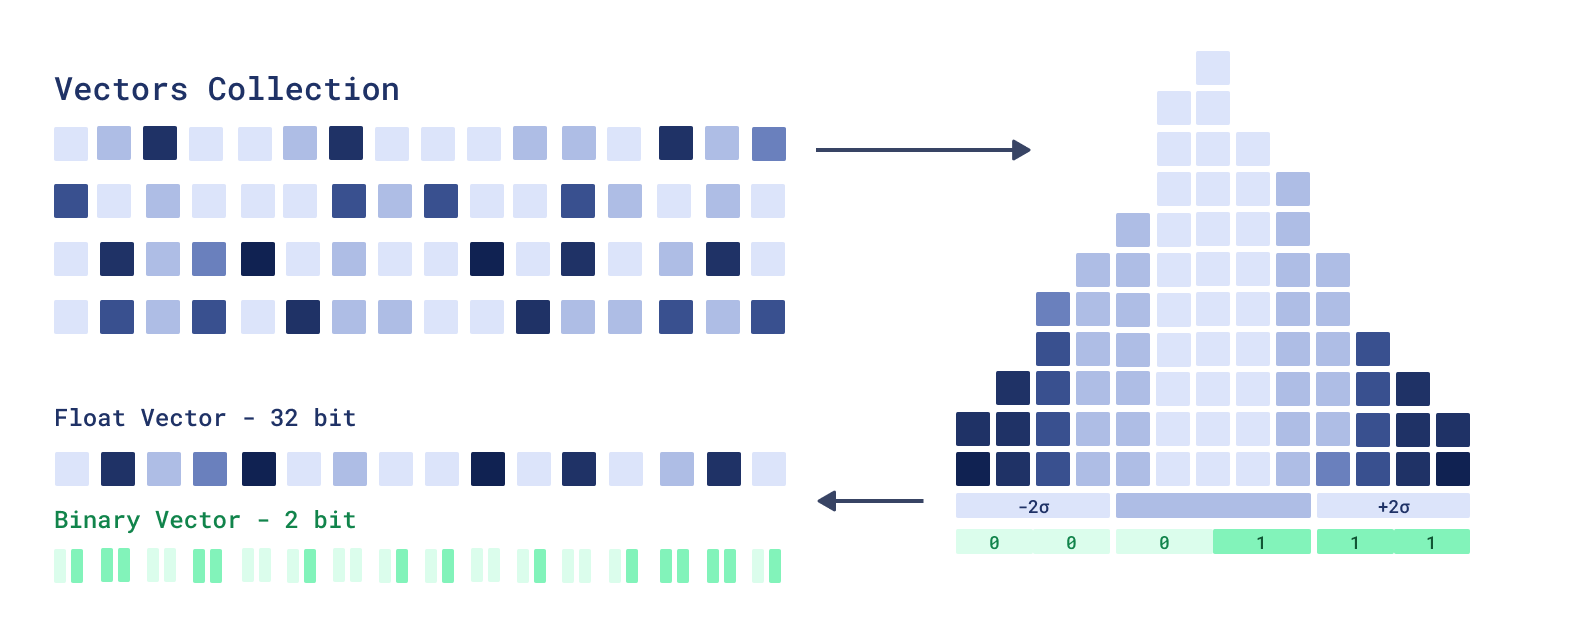
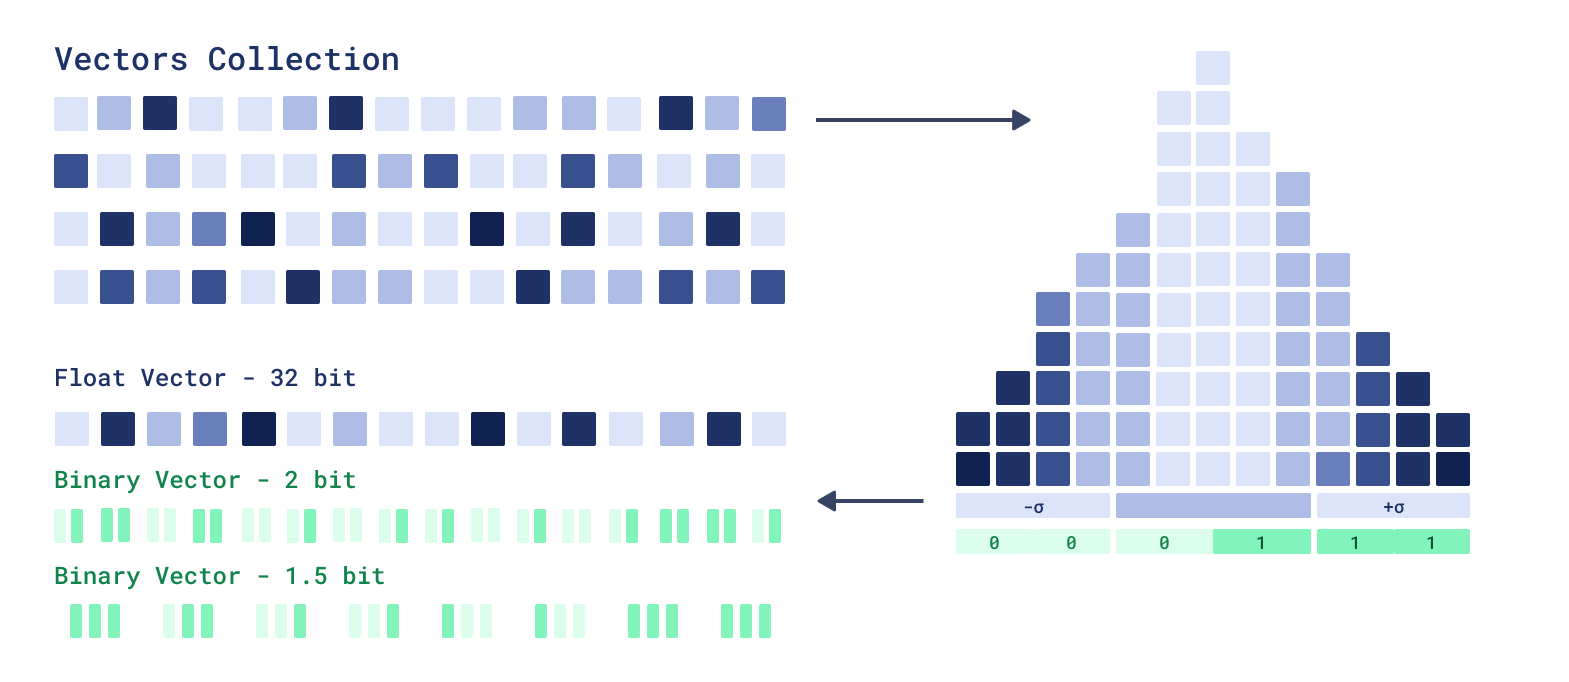
review

diff --git a/qdrant-landing/content/blog/qdrant-1.15.x.md b/qdrant-landing/content/blog/qdrant-1.15.x.md
@@ -3,8 +3,8 @@ title: "Qdrant 1.15 - Smarter Quantization & better Text Filtering"
 draft: false
 slug: qdrant-1.15.x
 short_description: "Smarter Quantization, Healing Indexes, and Multilingual Text Filtering"
-description: "New access control options for RBAC, a much faster shard transfer procedure, and direct support for byte embeddings. " 
-date: 2025-07-15T00:00:00-08:00
+description: "New access control options for RBAC, a much faster shard transfer procedure, and direct support for byte embeddings. "
+date: 2025-01-15T00:00:00-08:00
 author: Derrick Mwiti
 featured: false
 tags:
@@ -13,11 +13,11 @@ tags:
   - new features
 ---
 
-[**Qdrant 1.15.0 is out!**](https://github.com/qdrant/qdrant/releases/tag/v1.15.0) Let’s look at the main features for this version: 
+[**Qdrant 1.15.0 is out!**](https://github.com/qdrant/qdrant/releases/tag/v1.15.0) Let’s look at the main features for this version:
 
-**New quantizations:** We introduce asymmetric quantization and 1.5 and 2-bit quantizations. Asymmetric quantization allows vectors and queries to have different quantization algorithms. 1.5 and 2-bit quantizations allow for improved accuracy. 
+**New quantizations:** We introduce asymmetric quantization and 1.5 and 2-bit quantizations. Asymmetric quantization allows vectors and queries to have different quantization algorithms. 1.5 and 2-bit quantizations allow for improved accuracy.
 
-**Changes in text index**: Introduction of a new multilingual tokenizer, stopwords support, stemming, and phrase matching. 
+**Changes in text index**: Introduction of a new multilingual tokenizer, stopwords support, stemming, and phrase matching.
 
 Various optimizations, including **HNSW healing**, allowing HNSW indexes to reuse the old graph without a complete rebuild, and **Migration to Gridstore** unlocks faster injestion.
 
@@ -26,41 +26,56 @@ Various optimizations, including **HNSW healing**, allowing HNSW indexes to reus
 
 ![Section 1](/blog/qdrant-1.15.x/section-1.png)
 
-We are expanding the Qdrant quantization toolkit with: 
+We are expanding the Qdrant quantization toolkit with:
 
-* **1.5-bit and 2-bit quantization** for better tradeoffs between compression and accuracy.   
-* **Asymmetric quantization** to combine binary storage with scalar queries for smarter memory use. 
+* **1.5-bit and 2-bit quantization** for better tradeoffs between compression and accuracy.
+* **Asymmetric quantization** to combine binary storage with scalar queries for smarter memory use.
 
 ### 1.5-Bit and 2-Bit Quantization
-We introduce a new **binary quantization** storage that uses **2 and 1.5 bits** per dimension, improving precision for smaller vectors. Previous one-bit compression resulted in significant data loss and precision drops for vectors smaller than a thousand dimensions, often requiring expensive rescoring. 2-bit quantization offers 16X compression compared to 32X with one bit, improving performance for smaller vector dimensions. The 1.5-bit quantization compression offers 24X compression and intermediate accuracy. 
+We introduce a new **binary quantization** storage that uses **2 and 1.5 bits** per dimension, improving precision for smaller vectors. Previous one-bit compression resulted in significant data loss and precision drops for vectors smaller than a thousand dimensions, often requiring expensive rescoring. 2-bit quantization offers 16X compression compared to 32X with one bit, improving performance for smaller vector dimensions. The 1.5-bit quantization compression offers 24X compression and intermediate accuracy.
 
-A major limitation of binary quantization is poor handling of values close to zero. 2-bit quantization addresses this by explicitly representing zeros using an efficient scoring mechanism. With 1.5-bit quantization we balance the efficiency of binary quantization with accuracy improvements of 2-bit quantization. 
+![2bit Quantization](/blog/qdrant-1.15.x/1.5-2-bit-quantization.png)
 
-![Quantization](/blog/qdrant-1.15.x/1.5-2-bit-quantization.png)
+A major limitation of binary quantization is poor handling of values close to zero. 2-bit quantization addresses this by explicitly representing zeros using an efficient scoring mechanism. With 1.5-bit quantization we balance the efficiency of binary quantization with accuracy improvements of 2-bit quantization.
+
 
 ### Asymmetric Quantization
-Asymmetric quantization enhances accuracy while maintaining binary quantization's storage benefits. In **asymmetric Quantization** the queries use a different algorithm, specifically scalar quantization. This approach maintains storage size and RAM usage similar to binary quantization while offering improved precision. It is beneficial for memory-constrained deployments, or where the bottleneck is disk I/O rather than CPU. This is particularly useful for indexing millions of vectors as it improves precision without sacrificing much because the limitation in such scenarios is disk speed, not CPU. This approach requires less rescoring for the same quality output. 
+
+The **Asymmetric Quantization** technique allows qdrant to use different vector encoding algorithm for stored vectors and for queries.
+Particularly interesting combination is a Binary stored vectors and Scalar quantized queries.
+
+This approach maintains storage size and RAM usage similar to binary quantization while offering improved precision. It is beneficial for memory-constrained deployments, or where the bottleneck is disk I/O rather than CPU. This is particularly useful for indexing millions of vectors as it improves precision without sacrificing much because the limitation in such scenarios is disk speed, not CPU. This approach requires less rescoring for the same quality output.
+
+![Asymmetric Quantization](/blog/qdrant-1.15.x/asymmetric-quantization.png)
 
 When performing nearest vector search, the query vector is compared against quantized vectors stored in the database. If the query itself remains unquantized and a scoring method exists to evaluate it directly against the compressed vectors, this allows for more accurate results without increasing memory usage.
 
-For example, when building a document retrieval system, you can use scalar quantization for the queries and binary quantization for the stored vectors. 
-
->  Quantization enables efficient storage and search of high-dimensional vectors. Learn more about this from our [**quantization**](/documentation/guides/quantization/) docs. 
+>  Quantization enables efficient storage and search of high-dimensional vectors. Learn more about this from our [**quantization**](/documentation/guides/quantization/) docs.
 
 ## Changes in Text Index
 
 ![Section 2](/blog/qdrant-1.15.x/section-2.png)
 
-Let's discover the new features in text indexing. 
+Full-text filtering in Qdrant in an efficient way to combine Vector-based scoring with exact keyword match.
+And in v1.15 full-text index recieved a number of upgrades which make vector similarity evem more useful.
 
 ### Multilingual Tokenization
-Building multilingual systems is challenging because languages have very different structures, complex morphology, and large variations in word usage. Qdrant now supports multilingual tokenization, meaning that search will perform more consistently in multilingual datasets without needing external preprocessing. This means that your system can now natively account for different alphabets, and grammatical structures. 
 
-We previously supported multilingual tokenization but made its compilation optional due to the large binary size. Recent changes have made the binary size smaller and so have included multilingual tokenization in all Qdrant 1.15 builds. With this update you can use a variety of languages in our full-text search index for filters. This means that languages that don't have clear word boundaries and aren't separated by space such as Japanase and Chinese are now natively supported. Previously, only languages with spaces were supported (with `"word"` tokenization), or you had to compile Qdrant yourself. Qdrant now auto-detects languages for each text.
+Previous versions of Qdrant relied on [charabia](https://github.com/meilisearch/charabia) package to perform multilingual tokenizetion.
+Unfortunately this package has a significant memory overhead for tokenizers in Korean and Japanese languages, so we could not enable in by default.
+
+With this update you can use a variety of languages in our full-text search index for filters.
+This means that languages that don't have clear word boundaries and aren't separated by space such as Japanase and Chinese are now natively supported.
+Previously, only languages with spaces were supported (with `"word"` tokenization), or you had to compile Qdrant yourself.
+
+In the new v1.15 release we completely reworked which tokenizer packages are used for specific languages.
+It allowed us to pack everything in the main build without sacrificing performance.
+
+Qdrant now supports multilingual tokenization, meaning that search will perform more consistently in multilingual datasets without needing external preprocessing.
 
 Here is how to configure the multilingual tokenizer:
 
-```markdown
+```http
 PUT /collections/{collection_name}/index
 {
   "field_name": "description",
@@ -70,11 +85,17 @@ PUT /collections/{collection_name}/index
   }
 }
 ```
+
 ### Stop Words
-Stop words make extracting meaningful information from your data more challenging. Articles like "a", conjunctions like "and", prepostions like "with", pronouns like "he" and common verbs such as "be", can clutter your index without adding value to search. You can remove them manually by creating a stop words list. To make this process even more efficient, Qdrant can now automatically ignore these during indexing and search, helping reduce noise and improve precision.
+
+Articles like "a", conjunctions like "and", prepostions like "with", pronouns like "he" and common verbs such as "be", can clutter your index without adding value to search.
+Those meaningless works can also complicate construction of filtering condition, when previously you had to manually remove them from the query.
+
+Now you can configure `stopwords` for qdrant full-text index and Qdrant will handle them automatically.
 
 Here is how to configure stopwords:
-```markdown
+
+```http
 PUT /collections/{collection_name}/index
 {
   "field_name": "title",
@@ -84,14 +105,23 @@ PUT /collections/{collection_name}/index
   }
 }
 ```
+
+For more information about stopwords, see the [documentation](https://qdrant.tech/documentation/concepts/indexing/#stopwords).
+
 ### Stemming
-Stemming improves text processing by converting words to their root form. For example “run”, “runs”, and “running” will all map to the root “run”. By using
-stemming you only store the root words, reducing the size of the index and increasing retrieval accuracy. It also leads to faster processing time for large volumes of text.
 
-In Qdrant, stemming allows for better query document matching because grammar-related suffixes that don't add meaning to words get removed. We apply stemming in our full-text-search index increasing recall, because a more variety of queries match the same document. For example the queries "interesting documentation" and "interested in this document", will be normalized to ["interest", "document"] and ["interest", "in", "this", "document"], converting them to a very similar query. However, without stemming, these would become ["interesting", "documentation"] and ["interested", "in", "this", "document"], resulting in not a single word matching, despite being very similar in meaning. 
+Stemming improves text processing by converting words to their root form.
+For example “run”, “runs”, and “running” will all map to the root “run”.
+By using stemming you only store the root words, reducing the size of the index and increasing retrieval accuracy.
 
-Here is an example showing how to configure the collection to use the [Snowball stemmer](https://snowballstem.org/): 
-```markdown
+In Qdrant, stemming allows for better query document matching because grammar-related suffixes that don't add meaning to words get removed.
+We apply stemming in our full-text index increasing recall, because a more variety of queries match the same document.
+For example the queries "interesting documentation" and "interested in this document", will be normalized to `["interest", "document"]` and `["interest", "in", "this", "document"]`, converting them to an overlapping sets.
+However, without stemming, these would become `["interesting", "documentation"]` and `["interested", "in", "this", "document"]`, resulting in not a single word matching, despite being very similar in meaning.
+
+Here is an example showing how to configure the collection to use the [Snowball stemmer](https://snowballstem.org/):
+
+```http
 PUT /collections/{collection_name}/index
 {
   "field_name": "body",
@@ -104,10 +134,16 @@ PUT /collections/{collection_name}/index
   }
 }
 ```
-### Phrase Matching
-With [phrase matching](https://qdrant.tech/documentation/concepts/filtering/#phrase-match), you can now perform exact phrase comparisons, allowing you to search for a specific phrase within a text field. You can configure your collection to support phrase matching as shown below:
 
-```markdown
+### Phrase Matching
+
+With [phrase matching](/documentation/concepts/filtering/#phrase-match), you can now perform exact phrase search.
+It allows you to search for a specific phrase, words in exact order, within a text field.
+
+For efficient phrase seach Qdrant requires to build an additional data structure,
+so it needs to be configured during creation of the full-text index:
+
+```http
 PUT /collections/{collection_name}/index
 {
   "field_name": "headline",
@@ -118,10 +154,9 @@ PUT /collections/{collection_name}/index
 }
 ```
 
-
 For example, the phrase “machine time” will be matched exactly in that order within the “summary” field:
 
-```markdown
+```http
 POST /collections/{collection_name}/points/query
 {
   "vector": [0.01, 0.45, 0.67, 0.12],
@@ -136,6 +171,7 @@ POST /collections/{collection_name}/points/query
   "limit": 10
 }
 ```
+
 The above will match:
 
 |  | text |
@@ -144,23 +180,30 @@ The above will match:
 | ❌ | "Dr. Brown retrofitted a DeLorean into a **time machine**." |
 
 ## MMR Rescoring
-![Section 3](/blog/qdrant-1.15.x/section-3.png)
 
-We introduce [Maximal Marginal Relevance (MMR)](/documentation/concepts/hybrid-queries/#maximal-marginal-relevance-mmr) rescoring to balance relevance and diversity.  MMR works by selecting the results iteratively, by picking the item with the best combination of similarity to the query and dissimilarity to the already selected items. 
+We introduce [Maximal Marginal Relevance (MMR)](/documentation/concepts/hybrid-queries/#maximal-marginal-relevance-mmr) rescoring to balance relevance and diversity.
+MMR works by selecting the results iteratively, by picking the item with the best combination of similarity to the query and dissimilarity to the already selected items.
 
-It prevents your top-k results from being redundant and helps surface varied but relevant answers, particularly in dense datasets with overlapping entries.  
+It prevents your top-k results from being redundant and helps surface varied but relevant answers, particularly in dense datasets with overlapping entries.
+
+![MMR example](/blog/qdrant-1.15.x/mmr-example.png)
 
 ### Diversifying Search Results with MMR
 
-Let’s say you’re building a knowledge assistant or semantic document explorer in which a single query can return multiple highly similar queries. For instance, searching “climate change” in a scientific paper database might return several similar paragraphs. 
+Let’s say you’re building a knowledge assistant or semantic document explorer in which a single query can return multiple highly similar queries.
+For instance, searching “climate change” in a scientific paper database might return several similar paragraphs.
 
 You can diversify the results with [Maximal Marginal Relevance (MMR)](/documentation/concepts/hybrid-queries/#maximal-marginal-relevance-mmr).
 
-Instead of returning the top-k results based on pure similarity, MMR helps select a diverse subset of high-quality results. This gives more coverage and avoids redundant results, which is helpful in dense content domains such as academic papers, product catalogs, or search assistants. 
+Instead of returning the top-k results based on pure similarity, MMR helps select a diverse subset of high-quality results.
+This gives more coverage and avoids redundant results, which is helpful in dense content domains such as academic papers, product catalogs, or search assistants.
 
-For example, you have vectorized paragraphs from hundreds of documents and stored them in Qdrant. Instead of showing only five nearly identical answers, you want your chatbot to respond with diverse answers. Here’s how to do it:
+![Diversifying Search Results with MMR](/blog/qdrant-1.15.x/diversity.png)
 
-```markdown  
+For example, you have vectorized paragraphs from hundreds of documents and stored them in Qdrant.
+Instead of showing only five nearly identical answers, you want your chatbot to respond with diverse answers. Here’s how to do it:
+
+```http
 POST /collections/{collection_name}/points/query
 {
   "query": {
@@ -173,46 +216,65 @@ POST /collections/{collection_name}/points/query
   "limit": 10
 }
 ```
-![Diversifying Search Results with MMR](/blog/qdrant-1.15.x/diversity.png)
-
 
 ## Migration to Gridstore
 
+![Section 3](/blog/qdrant-1.15.x/section-3.png)
 
 When we started building Qdrant, we picked RocksDB as our embedded key-value store. However, due to it's architecture we ran into issues such as random latency spikes. [Gridstore](https://qdrant.tech/articles/gridstore-key-value-storage/) is our custom solution to this and other challenges we faced when building with RocksDB. Qdrant 1.15 continues our transition from RocksDB to [Gridstore](https://qdrant.tech/articles/gridstore-key-value-storage/) as the default storage backend for new deployments, leading to:
 
-* Faster ingestion speeds.   
-* Fast lookups and space management.  
-* Crash resilience with lazy updates and WAL recovery
+* Faster ingestion speeds.
+* Storage banagement without "garbage collection".
 
-> For more insights on the performance of Gridstore compared to RocksDB checkout our [**Introducing Gridstore**](https://qdrant.tech/articles/gridstore-key-value-storage/#end-to-end-benchmarking) article. 
+> For more insights on the performance of Gridstore compared to RocksDB checkout our [**Introducing Gridstore**](https://qdrant.tech/articles/gridstore-key-value-storage/#end-to-end-benchmarking) article.
 
 ## Optimizations
-Qdrant 1.15 introduces HNSW healing. When points are removed from an existing [graph](https://qdrant.tech/documentation/concepts/indexing/#vector-index), new links are added to prevent isolation in the graph, and avoid decreasing search quality.
 
-> Our [**Optimizing Qdrant Performance**](/documentation/guides/optimize/) guide covers different optimization strategies. 
+As usual, new Qdrant release brings more performance optimization for faster and cheaper vector search at scale.
+
+### HNSW Healing
+
+Qdrant 1.15 introduces HNSW healing.
+
+Instead of completely re-building HNSW index during optimization, Qdrant now tries to re-use information from the existing vector index to speed-up construction of the new one.
+When points are removed from an existing [HNSW graph](https://qdrant.tech/documentation/concepts/indexing/#vector-index), new links are added to prevent isolation in the graph, and avoid decreasing search quality.
+
+This modification, in combinations with [incremental HNSW indexing](/blog/qdrant-1.14.x/#improved-resource-use-during-segment-optimization) introduced in v1.14.0, it significantly improves resource utilization in use-case with high update rates.
+
+### HNSW Graph connectivity estimation
+
+Qdrant builds [addtitional HNSW links](/articles/filtrable-hnsw/) to ensure that filtered searches are performed fast and accurate.
+
+It does, however, introduce an overhead for indexing complexity, especially when the number of payload indexes is large.
+With v1.15, Qdrant introduces an optimization, which quickly estimates graph connectivity before creating additional links.
+
+Is some scenarios this optimization can reduce indexation time multiple times without sacrificing search quality.
+
+![Conclusion](/blog/qdrant-1.15.x/connectivity-estimation.png)
 
 ## Changes in Web UI
-With Qdrant 1.15, you can create new collections from the UI with a guided process to simplify configuration. The new UI covers the most typical configurations, so it helps you set up your collection correctly, even if you're just starting.
 
-![create-collection01](/blog/qdrant-1.15.x/create-collection02.png)
+Main Web-UI feature of the release is a `Create Collection` dialog.
 
-This new UI update is helpful for:
+This dialog is designed with an idea to guide users through the configuration process.
+Instead of listing all possible configurations, we tried to organise it into an intuitive flow that also encourages best-practices.
 
-* Experimenting interactively without writing JSON by hand.   
-* Spinning a proof-of-concept without opening an IDE. 
+![create-collection01](/blog/qdrant-1.15.x/create-collection.png)
 
 ## Upgrading to Version 1.15
 
 In Qdrant Cloud, simply go to your Cluster Details screen and select Version 1.15 from the dropdown. The upgrade may take a few moments.
 
-> Upgrading from earlier versions is straightforward - no major API or index-breaking changes. We recommend upgrading versions one by one, for example, 1.13 ->1.14->1.15. 
+> Upgrading from earlier versions is straightforward - no major API or index-breaking changes. We recommend upgrading versions one by one, for example, 1.13 ->1.14->1.15.
 
 **Figure**: Updating to the latest software version from the Qdrant Cloud dashboard.
 
 **ADD SCREENSHOT**
 
 **Documentation**: For detailed usage examples, configuration options, and implementation guides, including quantization, MMR rescoring, multilingual text indexing, and more, refer to the official [Qdrant documentation](https://qdrant.tech/documentation) and [API reference](https://api.qdrant.tech). You'll find full code samples, integration walkthroughs, and best practices for building high-performance vector search applications.
-## Conclusion
+
+## Engage
+
+![Engage](/blog/qdrant-1.15.x/section-4.png)
 
 We would love to hear your thoughts on this release. If you have any questions or feedback, join our [Discord](https://discord.gg/qdrant) or create an issue on [GitHub](https://github.com/qdrant/qdrant/issues).
